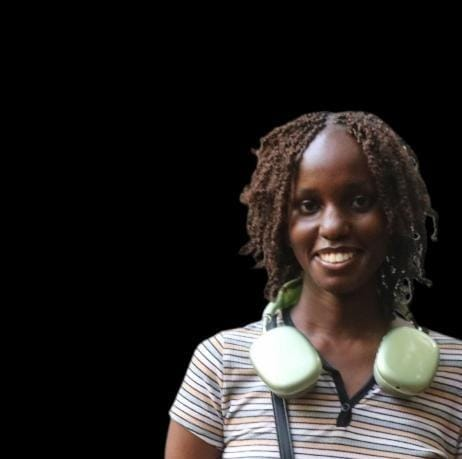
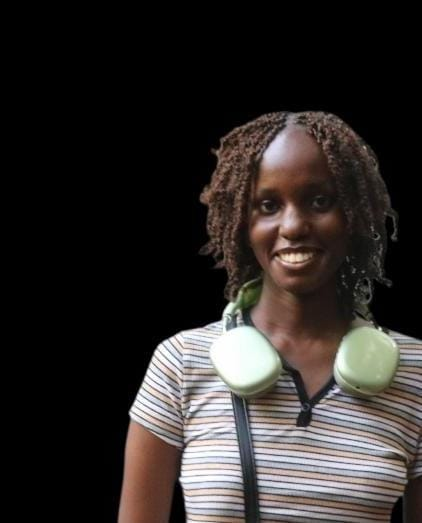
Updated Hero Image

diff --git a/style.css b/style.css
@@ -388,13 +388,17 @@ nav .fas {
 
 /*Small Screen*/
 @media only screen and (max-width: 600px) {
+  body{
+    margin-left: 26px;
+  }
+
   #header {
-    background-image: url(IMAGES/Sm-Hero.jpeg);
+    background-image: url(IMAGES/Small\ Hero.jpeg);
     height: 80vh;
   }
 
   .header-text {
-    margin-top: 45%;
+    margin-top: 60%;
     font-size: 16px;
   }
 
